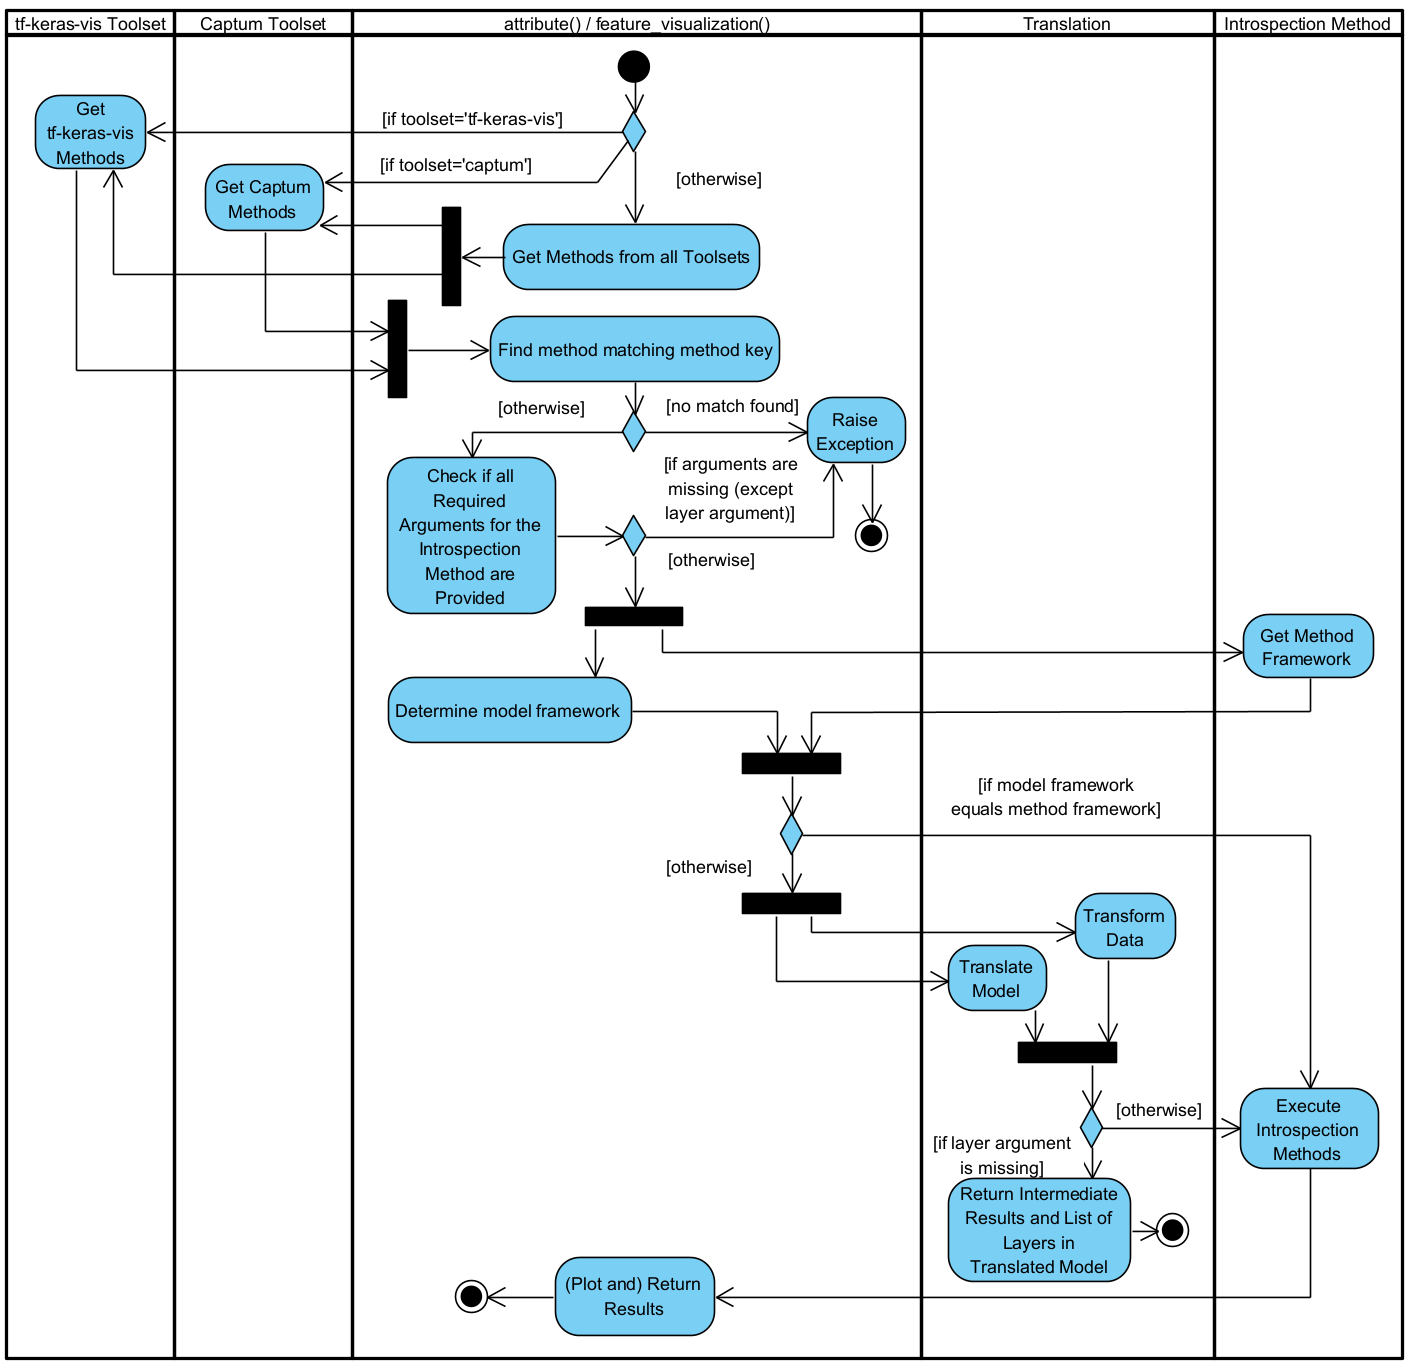
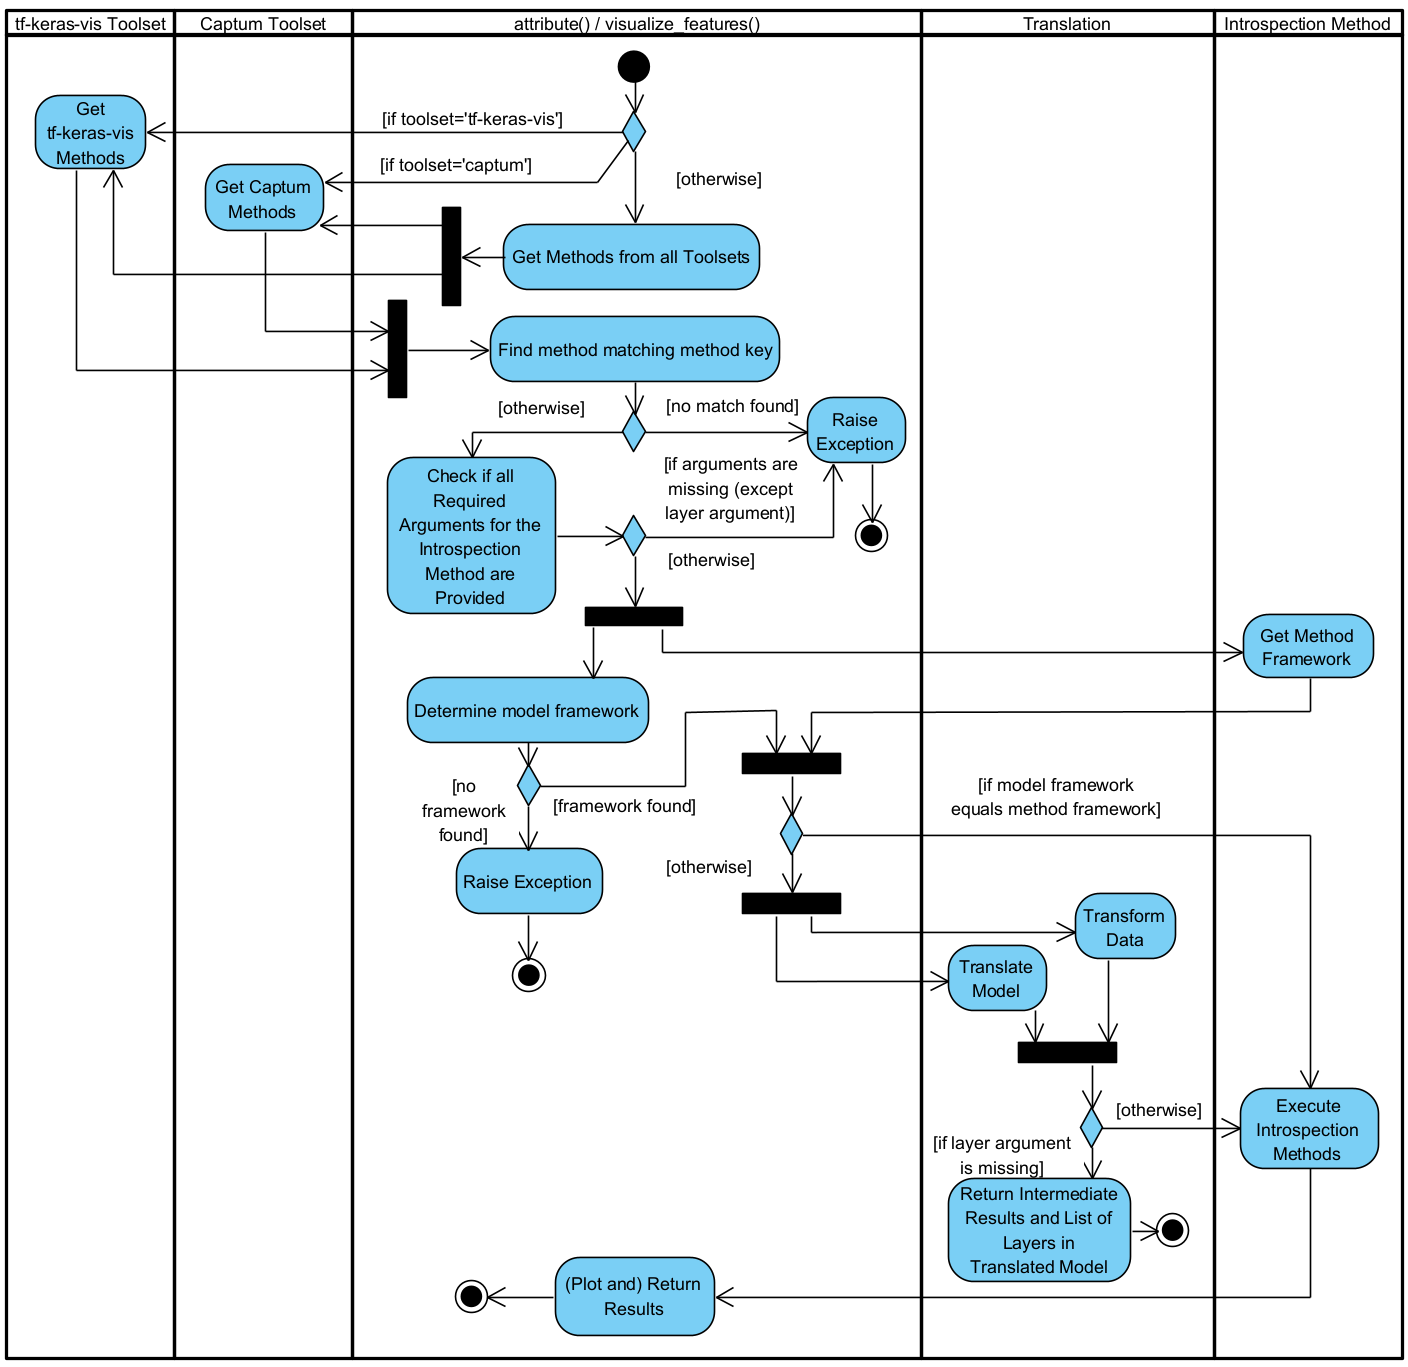
update report, restructure results

diff --git a/unittests/TestCleverHans.py b/unittests/TestCleverHans.py
@@ -70,7 +70,10 @@ class TestCleverHans(unittest.TestCase):
         torch_x = torch_x.reshape((torch_x.shape[0], torch_x.shape[3], torch_x.shape[1], torch_x.shape[2]))
         torch_x = torch.from_numpy(torch_x)
 
-        methods = [method_keys.SALIENCY, method_keys.GRAD_CAM, method_keys.ACTIVATION_MAXIMIZATION]
+        methods = [  # method_keys.SALIENCY,
+            method_keys.GRAD_CAM,
+            # method_keys.ACTIVATION_MAXIMIZATION
+        ]
         figure = plt.figure(figsize=(5 * n_samples, 5 * (len(methods) + 1)))
         counter = 1
         for i in range(n_samples):

diff --git a/results/report.md b/results/report.md
@@ -1,6 +1,8 @@
 Blog Report Cross-Framework-Introspection
 ---
 
+todo: toolname -> MetaNNvis
+
 # Introduction
 
 Over the last years, neural networks have grown ever the more powerful and complex. Their structure allows them to be
@@ -71,83 +73,102 @@ each framework, Captum from PyTorch and tf-keras-vis from TensorFlow. We will ta
 following:
 
 ## Captum
-todo
-- [(Narine et al., 2020)](#narine2020)
-- open source, extendable, generic
-- input / layer / neuron attribution
-- gradient vs pertubation based
-- not only applicable to image tasks
--
+
+Captum [(Narine et al., 2020)](#narine2020) is a generic interpretability library for PyTorch models. It features
+implementations of various attribution methods, which it divides into primary, layer and neuron methods, meaning that
+methods are measuring the importance of either the input, a model layer or a particular neuron. Additionality, Captum
+provides evaluation metrics and a visualisation tool for these methods. The library can be applied to different
+NN-tasks, including classification and non-classification models as well as different input modalities. Captum is
+open-source and built to be extensible by new algorithms.
 
 ## tf-keras-vis
 
+The open-source library [tf-keras-vis](https://github.com/keisen/tf-keras-vis) contains visualisation methods for
+TensorFlow 2.0 models. It supports both feature visualisation with activation maximisation as well as attribution
+methods, more precisely saliency maps and different variants of class activation maps. tf-keras-vis has been developed
+for image inputs and has been designed to be light-weight and flexible.
+
 ## Method selection
 
-Especially Captum implements a large number of methods, 36 in total counting primary, layer and neuron variants
+Especially Captum implements a large number of methods: 36 in total, counting primary, layer and neuron variants
 seperately. In order to limit the scope of this project, I have chosen prioritize the introspection methods provided by
 Captum and tf-keras-vis. The result can be seen in the table below.
 
 | Method  | Category  | Priority  |
 | --- | --- | --- |
 | **Captum** |||
-| Integrated Gradients  |    primary, layer, neuron  | <span style="color:green">include</span> |
-| Saliency  | primary | <span style="color:green">include</span> |
-| DeepLift  | primary, layer, neuron  | <span style="color:green">include</span> |
-| DeepLiftShap  | primary, layer, neuron  | <span style="color:red">leave out</span> |
-| GradientShap  | primary, layer, neuron  | <span style="color:yellow">later</span> |
-| Input X Gradient  | primary | <span style="color:green">include</span> |
-| Gradient X Activation | layer | <span style="color:green">include</span> |
-| Guided Backpropagation    | primary, neuron | <span style="color:red">leave out</span> |
-| Guided GradCAM  | primary | <span style="color:red">leave out</span> |
-| Deconvolution | primary, neuron | <span style="color:yellow">later</span> |
-| Feature Ablation  | primary, layer, neuron  | <span style="color:green">include</span> |
-| Occlusion | primary  | <span style="color:red">leave out</span> |
-| Feature Permutation | primary | <span style="color:green">include</span> |
-| Shapley Value Sampling  | primary | <span style="color:red">leave out</span> |
-| Lime  | primary | <span style="color:red">leave out</span> |
-| KernelShap  | primary | <span style="color:red">leave out</span> |
-| Layer Relevance Propagation | primary, layer  | <span style="color:red">leave out</span> | 
-| Conductance | layer, neuron | <span style="color:yellow">later</span> |
-| Layer Activation  | layer | <span style="color:yellow">later</span> |
-| Internal Influence  | layer | <span style="color:red">leave out</span> |
-| GradCAM | layer | <span style="color:green">include</span> |
-| Neuron Gradient | neuron  | <span style="color:yellow">later</span> |
+| Integrated Gradients  |    primary, layer, neuron  | <span style="color:green">1</span> |
+| Saliency  | primary | <span style="color:green">1</span> |
+| DeepLift  | primary, layer, neuron  | <span style="color:green">1</span> |
+| DeepLiftShap  | primary, layer, neuron  | <span style="color:red">3</span> |
+| GradientShap  | primary, layer, neuron  | <span style="color:yellow">2</span> |
+| Input X Gradient  | primary | <span style="color:green">1</span> |
+| Gradient X Activation | layer | <span style="color:green">1</span> |
+| Guided Backpropagation    | primary, neuron | <span style="color:red">3</span> |
+| Guided GradCAM  | primary | <span style="color:red">3</span> |
+| Deconvolution | primary, neuron | <span style="color:yellow">2</span> |
+| Feature Ablation  | primary, layer, neuron  | <span style="color:green">1</span> |
+| Occlusion | primary  | <span style="color:red">3</span> |
+| Feature Permutation | primary | <span style="color:green">1</span> |
+| Shapley Value Sampling  | primary | <span style="color:red">3</span> |
+| Lime  | primary | <span style="color:red">3</span> |
+| KernelShap  | primary | <span style="color:red">3</span> |
+| Layer Relevance Propagation | primary, layer  | <span style="color:red">3</span> | 
+| Conductance | layer, neuron | <span style="color:yellow">2</span> |
+| Layer Activation  | layer | <span style="color:yellow">2</span> |
+| Internal Influence  | layer | <span style="color:red">3</span> |
+| GradCAM | layer | <span style="color:green">1</span> |
+| Neuron Gradient | neuron  | <span style="color:yellow">2</span> |
 | **tf-keras-vis** |||	
-| Activation Maximization | feature visualization | <span style="color:green">include</span> |
-| Vanilla Saliency / SmoothGrad | attribution | <span style="color:green">include</span> |
-| GradCAM | attribution | <span style="color:green">include</span> |
-| GradCAM++ | attribution | <span style="color:yellow">later</span> |
-| ScoreCAM  | attribution | <span style="color:yellow">later</span> |
-| LayerCAM  | attribution | <span style="color:yellow">later</span> |
+| Activation Maximization | feature visualization | <span style="color:green">1</span> |
+| Vanilla Saliency / SmoothGrad | attribution | <span style="color:green">1</span> |
+| GradCAM | attribution | <span style="color:green">1</span> |
+| GradCAM++ | attribution | <span style="color:yellow">2</span> |
+| ScoreCAM  | attribution | <span style="color:yellow">2</span> |
+| LayerCAM  | attribution | <span style="color:yellow">2</span> |
 
-_Include_ marks methods which are important and were implemented right away. These methods have also been used for
-the [evaluation](#evaluation) Methods marked as _later_ are considered to be useful, but not essential to the project.
-Those methods are implemented as well, but not part of the evaluation.
-_Leave out_ is used for methods which are deemed not important for this project and thusly are not integrated into the
+_Priority 1_ marks methods which are important and were implemented right away. These methods have also been used for
+the [evaluation](#evaluation). Methods marked as _priority 2_ are considered to be useful, but not essential to the
+project. Those methods are implemented as well, but are not part of the evaluation.
+_Priority 3_ is used for methods which are deemed not important to this project and thusly are not integrated into the
 tool.
 
 The aim of this selection is to capture a wide range of different approaches, for instance including both gradient-based
 and perturbation-based methods. This also means that of similar method pairs like Feature Ablation and Occlusion,
 usually only one method is included. Basic, often-used methods are given an advantage compared to more specialized ones
 as well. For this reson, GradCAM for example has a higher priority than the GradCAM variants. Additionally, methods
-which are known to fail sanity checks (todo cite) such as Guided Backpropagation have been excluded.
+which are known to fail sanity checks ([Adebayo et al., 2018](#adebayo2018); [Sixt et al., 2020](#sixt2020)) such as
+Guided Backpropagation have been excluded.
 
 # Cross-Framework Introspection
 
 To accomplish the task of making the selected methods from Captum accessible in TensorFlow and the tf-keras-vis methods
-accessible in PyTorch we need a tool that has the following features:
+accessible in PyTorch, our tool MetaNNvis has to have the following features:
 
-- **Model translation from PyTorch to TensorFlow:** todo: add paragraphs
-- **Model translation from TensorFlow to PyTorch**
-- **Data Translation**
-- **Interface for accessing introspection methods**
+- **Model translation between PyTorch and TensorFlow**: The tool's most crucial component is the ability to transform a
+  PyTorch model into a TensorFlow model and vice versa. The translated model should behave equivalent or at least very
+  similar to the original model, i.e., yield the same results for the same inputs. This way, we can assume that any
+  introspection results we get for the translated model are also true for the original model.
+- **Data Translation**: Many introspection methods require not only a model, but also additional data, e.g., an input
+  image for which to compute the saliency. Since users typically have model input data available in a format that
+  matches their model's framework, but the the framework of the translated model, input data needs to be transformed as
+  well.
+- **Interface for accessing introspection methods**: Finally, the tool has to pass the translated model and input data
+  to the introspection method itself and return the results. This also includes passing additional parameters for
+  finetuning the introspection method.
 
 Beside these strictly neccessary features, there are a few additionally requirements for the tool:
 
-- **Extendability**
-- **Uniform interface**
-- **Error handling**
-- **Plotting of results**
+- **Extendability**: Since we decided to cover only a limited number of methods from two toolsets, it might become
+  necessary to add new methods later on. Therefore, MetaNNvis should have a design which allows adding not only more
+  tf-keras-vis and Captum methods, but also new toolsets or even complete frameworks.
+- **Uniform interface**: Different toolsets and frameworks always have a differently structured API. When working with
+  methods from different toolsets simultaneously, this can become cumbersome. To improve the user experience, the tool
+  should provide a single interface for all toolsets that hides most of the differences.
+- **Error handling**: Errors which may occur during any part of the process, for instance during model translation or
+  calling the introspection method itself, should be avoided or at least propagated where possible.
+- **Plotting of results**: The results of introspection methods are typically multi-dimensional arrays which need to be
+  visualised to be human-understandable. This is a task which can be provided by tool as well.
 
 To achieve these goals, we have decided on the structure shown in [Figure 2](#figure2).
 
@@ -176,7 +197,7 @@ introspection methods. Instead of a regular TensorFlow model, onnx-tensorflow re
 incorporates basic functions of a TensorFlow model, but not the full functionality required by Captum methods. Another
 candidate for the ONNX to TensorFlow conversion was the [onnx2keras](https://github.com/gmalivenko/onnx2keras) library
 developed by Grigory Malivenko. It got rejected because it was incompatible with the ONNX models produced by torch.onnx.
-I In particular, layer names which include certain special character, such as `onnx::Relu_10/`, could neither be handled
+In particular, layer names which include certain special character, such as `onnx::Relu_10/`, could neither be handled
 by this onnx2keras library, nor efficiently changed beforehand.
 
 For the translation process from Tensorflow to PyTorch, we employ **[
@@ -195,11 +216,6 @@ model from an incongruous framework, i.e., a user executes a method call like th
 
 Note that the user specifically requests a tf-keras-vis method, but gives the tool a PyTorch model. How this or similar
 calls are handled is described in [Figure 3](#fig:activity_diagram).
-
-todo: update figure
-
-- in header: visualize_features()
-- determine model framework: exception if no framework matches
 
 First, all methods matching the provided `method_key` have to be retrieved. This is either done via one of the toolset
 classes or, if the `toolset` parameter is not provided, methods from all toolset classes are taken into account. If no
@@ -232,25 +248,28 @@ a plot of the results is created as well.
 </div>
 </div>
 
-<div style="display:none">
-notes:
-- goals
-- tool implementation (component / activity diagram?)
-- relevant projects: onnx (torch.onnx, tf-onnx), onnx2keras, onnx2torch, tf-keras-vis, Captum
-- refer to documentation for implementation details / usage
-eval:
-- clever hans results
-- activation maximization
-- framework comparison
-- tool limitations
-</div>
+Instructions on how to install and use MetaNNvis can be found in the [User Guide](/user_guide.ipynb). It also contains
+information on how to extend the tool with your own introspection methods.
 
 # Evaluation
+
+We have conducted tests to verify that the model translation works as intended, i.e., that for different models and
+inputs, the outputs of models and their translations only differ by a neglible amount several orders of magnitude lower
+than the output. This difference can be attributed to numerical errors during the translation process. From the strong
+similarity of the outputs, we can conclude that introspection results for one model are applicable to the other model as
+well.
+
+Furthermore, we evaluated whether the method yield expectable results for a simple clever hans predictor (
+see [Clever Hans](#clever-hans)) and compared the Saliency and Grad-CAM implementations of Captum and tf-keras-vis (
+see [Comparison](#comparison-between-toolsets)).
+
+Additional visualisations of our results can be found in the projects [results folder](../results/). #todo clean up
+results
 
 ## Clever Hans
 
 In order to evaluate if the results gained from executing an introspection method on a translated model actually yield
-useful insights into the original model, we trained a CNN model (todo: link) on a modified MNIST
+useful insights into the original model, we trained a CNN model on a modified MNIST
 dataset ([LeCun et. al., 1998](#lecun1998)) with permutated labels and 5x5 grey squares in the top left corner, their
 lightness correlating with the newly assigned label. This way, we can safely assume that the model only learns to use
 the top left corner when making a prediction.
@@ -259,7 +278,7 @@ We then used the trained model to test different attribution methods. For the Ca
 implemented and trained in TensorFlow and for the tf-keras-vis methods in PyTorch.
 
 The results for the primary attribution methods can be seen in [Figure 4](#fig:clever_hans). As can be seen, most
-methods indicate a strong focus of the network of the top left corner. (todo: why not tf-keras-vis gradcam?)
+methods indicate a strong focus of the network of the top left corner.
 [Figure 5](#fig:clever_hans_layer) shows the results of layer attribution methods for the first convolutional layer.
 Here, out of 20 channels, some are only react to the to top left corner (such as channels 16 and 18) while some show a
 random behaviour (like channel 19) or no activation at all.
@@ -345,10 +364,12 @@ todo
 
 # Bibliography
 
-- <div id="olah2017"><a href="https://distill.pub/2017/feature-visualization/">Chris Olah, Alexander Mordvintsev, Ludwig Schubert: Feature Visualization, Distill, 2017</a></div>
-- <div id="sundararajan2017"><a href="https://arxiv.org/abs/1703.01365">Mukund Sundararajan, Ankur Taly, Qiqi Yan: Axiomatic Attribution for Deep Networks, arXiv, 2017</a></div>
-- <div id="narine2020"><a href="https://arxiv.org/abs/2009.07896">Kokhlikyan et al.: Captum: A Unified and Generic Model Interpretability Library for PyTorch, arXiv, 2020</a></div>
-- <div id="lecun1998"><a href="https://ieeexplore.ieee.org/abstract/document/726791/?casa_token=Fi4h9S8m7YIAAAAA:PcPAnKGFtj9Y-iO0O9To9Ka0q3uQf0iaVS9SYGHU3DjQb1BEpXlh0Tv5AvNWE0yykgLk5wi54A">Yann LeCun et al.: Gradient-based Learning Applied to Document Recognition, IEEE, 1998</a></div>
-- <div id="simonyan2013"><a href="https://arxiv.org/abs/1312.6034">Karen Simonyan, Andrea Vedaldi, Andrew Zisserma: Deep Inside Convolutional Networks: Visualising Image Classification Models and Saliency Maps, arXiv, 2013</a></div>
-- <div id="selvaraju2017"><a href="https://openaccess.thecvf.com/content_iccv_2017/html/Selvaraju_Grad-CAM_Visual_Explanations_ICCV_2017_paper.html">Ramprasaath R. Selvaraju et. al.: Grad-CAM: Visual Explanations From Deep Networks via Gradient-Based Localization, Proceedings
-  of the IEEE International Conference on Computer Vision (ICCV), 2017</a></div>
+- <div id="adebayo2018">Julius Adebayo et al.: <a href="https://proceedings.neurips.cc/paper/2018/hash/294a8ed24b1ad22ec2e7efea049b8737-Abstract.html">Sanity Checks for Saliency Maps</a>, Advances in Neural Information Processing Systems, 2018</div>
+- <div id="kokhlikyan2020">Kokhlikyan et al.: <a href="https://arxiv.org/abs/2009.07896">Captum: A Unified and Generic Model Interpretability Library for PyTorch</a>, arXiv, 2020</div>
+- <div id="lecun1998">Yann LeCun et al.: <a href="https://ieeexplore.ieee.org/abstract/document/726791/?casa_token=Fi4h9S8m7YIAAAAA:PcPAnKGFtj9Y-iO0O9To9Ka0q3uQf0iaVS9SYGHU3DjQb1BEpXlh0Tv5AvNWE0yykgLk5wi54A">Gradient-based Learning Applied to Document Recognition</a>, IEEE, 1998</div>
+- <div id="olah2017">Chris Olah, Alexander Mordvintsev, Ludwig Schubert: <a href="https://distill.pub/2017/feature-visualization/">Feature Visualization</a>, Distill, 2017</div>
+- <div id="selvaraju2017">Ramprasaath R. Selvaraju et. al.: <a href="https://openaccess.thecvf.com/content_iccv_2017/html/Selvaraju_Grad-CAM_Visual_Explanations_ICCV_2017_paper.html">Grad-CAM: Visual Explanations From Deep Networks via Gradient-Based Localization</a>, Proceedings
+  of the IEEE International Conference on Computer Vision (ICCV), 2017</div>
+- <div id="sixt2020">Leon Sixt, Maximilian Granz, Tim Landgraf: <a href="https://proceedings.mlr.press/v119/sixt20a.html">When Explanations Lie: Why Many Modified BP Attributions Fail</a>, Proceedings of the 37th International Conference on Machine Learning, 2020</div>
+- <div id="simonyan2013">Karen Simonyan, Andrea Vedaldi, Andrew Zisserma: <a href="https://arxiv.org/abs/1312.6034">Deep Inside Convolutional Networks: Visualising Image Classification Models and Saliency Maps</a>, arXiv, 2013</div>
+- <div id="sundararajan2017">Mukund Sundararajan, Ankur Taly, Qiqi Yan: <a href="http://proceedings.mlr.press/v70/sundararajan17a.html">Axiomatic Attribution for Deep Networks</a>, Proceedings of the 34th International Conference on Machine Learning, 2017</div>
